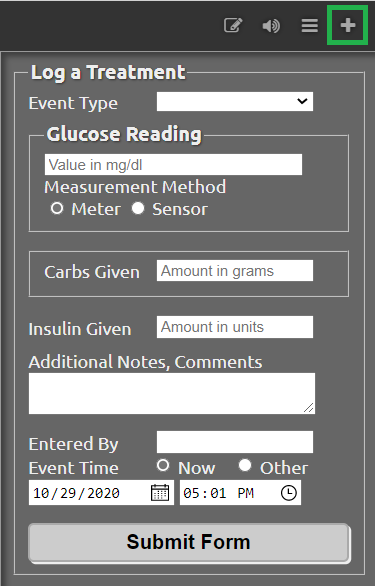
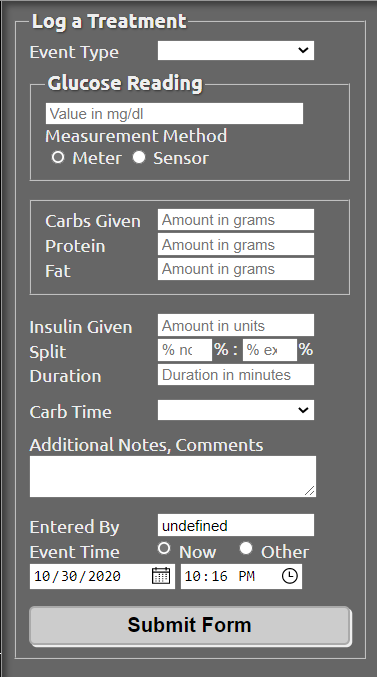
Completed careportal
And Edit
Fixed a serious mistake in variables

diff --git a/docs/nightscout/discover.md b/docs/nightscout/discover.md
@@ -22,19 +22,21 @@ Optionally you will see other indications (pills) that can be personalized in yo
 
 </br>
 
-### Authenticate yourself
+## Authenticate yourself
 
 By default you site opens read only, you need to authenticate using your [API secret](../../nightscout/setup_variables/#api_secret) in order to modify settings and add treatments. Click on the lock icon, enter your API secret and click `Update`.
 
 <img src="..\img\UseNS04.png" style="zoom:80%;" />
 
-This will unlock your careportal ([if enabled](../../nightscout/setup_variables/#careportal-careportal)) and edit ([if enabled](../../nightscout/setup_variables/#edit_mode-on)).
+This will unlock your `careportal` ([if enabled](../../nightscout/setup_variables/#careportal-careportal)) and `edit` ([if enabled](../../nightscout/setup_variables/#edit_mode-on)).
 
 <img src="..\img\UseNS05.png" style="zoom:80%;" />
 
 </br>
 
-### Add a treatment
+## Add a treatment (`careportal`)
+
+Some uploaders will send treatments to Nightscout but others won't. If you whish to do this manually, `careportal` is here for that.
 
 `+` will open an interface to manually enter treatments.
 
@@ -42,9 +44,136 @@ This will unlock your careportal ([if enabled](../../nightscout/setup_variables/
 
 </br>
 
-In the `Event Type` drop down menu, you can select the treatment type you want to add:
+In the `Event Type` drop down menu, you can select the treatment type you want to add. Additional available entries will depend on the [plugins you enabled](../../nightscout/setup_variables/#advanced-plugins) like Loop and OpenAPS/AAPS.
 
+##### BG Check
 
+`BG check` allows you to enter a blood glucose reading value from your `Meter`. With a CGM using `Sensor` reading doesn't add much value.
+
+Keep in mind the value will be inserted now (unless you modify the event time) and might not match your CGM value for non stable BG due to capillary time lag.
+
+<img src="..\img\UseNS07.png" style="zoom:80%;" />
+
+</br>
+
+##### Correction Bolus
+
+`Correction Bolus` allows you to enter the amount of insulin units injected for a correction.
+
+It will show as a circle with the lower half blue, with its size depending on the amount of units, UI indicated below (depending on [bolus rendering](../../nightscout/setup_variables/#bolus_render_over-1) setting).
+
+<img src="..\img\UseNS08.png" style="zoom:80%;" />
+
+</br>
+
+##### Meal Bolus
+
+##### Carb Correction
+
+##### Snack Bolus
+
+These treatments allow you to enter the amount of food you eat (and eventually the matching insulin treatment).
+
+It will show as a circle with the higher half white (if including carbs), with its size depending on the amount of food. Without carbs the upper half will not be filled with the white color. If you add proteins and fat, the amount will display in this order: `carbs/proteins/fat`. With insulin the lower half of the circle will fill in blue and units will be indicated below.
+
+You can select the timing of carbs absorption in `Carb Time` (i.e. when did you or will you actually eat these carbs) 
+
+<img src="..\img\UseNS09.png" style="zoom:80%;" />
+
+</br>
+
+##### Combo Bolus
+
+Combo bolus allows you to insert the corresponding bolus if you use a pump. Insert the total amount of insulin in `Insulin Given` then break down in `Split` with the percentage administered `now` and the `extended` amount. Enter the`Duration` of the extended bolus below.
+
+It will display as a classic bolus at treatment time and [basal](../../nightscout/setup_variables/#basal-basal-profile) will reflect the extended amount for the selected duration.
+
+<img src="..\img\UseNS10.png" style="zoom:80%;" />
+
+</br>
+
+##### Announcement
+
+Announcements are used to change your page title in order to alert viewers.
+
+Entering another treatment will acknowledge the announcement and return your page title to [default](../../nightscout/setup_variables/#custom_title-nightscout). 
+
+<img src="..\img\UseNS11.png" style="zoom:80%;" />
+
+</br>
+
+##### Note
+
+##### Question
+
+Notes and questions are a way to add comments and interact with others using your Nightscout page. 
+
+<img src="..\img\UseNS12.png" style="zoom:80%;" />
+
+</br>
+
+##### Exercise
+
+You can log physical activities and specify the duration. 
+
+<img src="..\img\UseNS13.png" style="zoom:80%;" />
+
+</br>
+
+##### Pump Site Change `cage`
+
+##### CGM Sensor Start `sage`
+
+##### CGM Sensor Insert
+
+##### CGM Sensor Stop
+
+##### Pump Battery Change `bage`
+
+##### Insulin Cartridge Change `iage`
+
+Logging these events will help you remember various expirations dates and will update the [corresponding pills](../../nightscout/setup_variables/#cage-cannula-age-sage-sensor-age-iage-insulin-age-bage-battery-age) if enabled. 
+
+<img src="..\img\UseNS14.png" style="zoom:80%;" />
+
+</br>
+
+##### Temp Basal Start
+
+##### Temp Basal Stop
+
+You can indicate temporary basal rate changes using either a percentage change or the absolute rate. You need basal to be enabled to visualize it.
+
+<img src="..\img\UseNS15.png" style="zoom:80%;" />
+
+</br>
+
+##### Profile Switch
+
+If you have more than one profile store, you can switch profile to keep your profile parameters synchronized.
+
+For a temporary switch (like for physical activities) you can select the duration.
+
+<img src="..\img\UseNS16.png" style="zoom:80%;" />
+
+</br>
+
+## Edit Mode (`edit`)
+
+For values still present on your display (last 48 hours), you can use Edit to move or delete bolus and correction treatments.
+
+<img src="..\img\UseNS17.png" /> will change color to red in edit mode <img src="..\img\UseNS18.png">.
+
+1. Drag the treatment in the past or future in the black area to move both food and insulin.
+2. If you want to move only insulin drop in the blue area. 
+3. For carbs only, in the white area. 
+4. To delete a complete treatment drop it in the red delete area.
+
+Once done, exit the edit mode by de-selecting it (white on black background). <img src="..\img\UseNS17.png" /> 
+
+<img src="..\img\UseNS19.png"/>
+
+</br>
 
 *More to come soon...*
 

diff --git a/docs/nightscout/setup_variables.md b/docs/nightscout/setup_variables.md
@@ -558,7 +558,7 @@ If you want the `ENABLE`'d plugins to **show by default on any browser**, you sh
 
 If you want to specifically disable a plugin (mainly a default plugin) you should place it in the `DISABLE` variable.
 
-You also can enable them manually on your Nightscout view from the drawer menu. `Authenticate` and `Save` the settings on your browser. Heroku variables will not be modified and only default view will be seen on a new browser window.
+You also can decide to visualize them or not on your Nightscout view with the drawer menu. `Authenticate` and `Save` the settings on your browser. Heroku variables will not be modified and only default view will be seen on a new browser window.
 
 <img src="..\img\SetupNS09.png" style="zoom:80%;" />
 
@@ -702,7 +702,7 @@ Extended settings available:
 
 ------
 
-#### Advanced Plugins:
+## Advanced Plugins:
 
 ##### `careportal` (Careportal)
 
